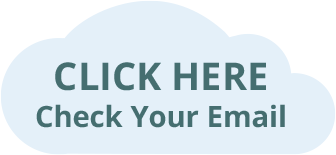
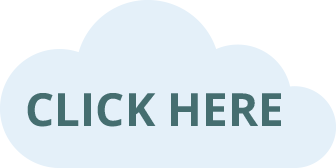
final revisions pt 001

diff --git a/style.css b/style.css
@@ -6,7 +6,8 @@
 .foot { }
 .foot-cta { background-color: #B2B4BB; padding:1em; }
 .clouds { width: 50%; }
-
+#dynamicContentID0 div { width:25%; margin:auto; line-height:1.125; font-weight:bold; }
+#dynamicContentClick { /*display:inline-block;*/ }
 /* Overlay Controls */
 .overlay { overflow-x: hidden; }
 .overlay { position: absolute; top: 0; left: 0; text-align:center; width:100%; }
@@ -29,7 +30,7 @@
 .interact .content h3 { line-height:1; }
 .intro .content p { text-align:left; line-height:1.125; }
 .intro .content .play-button { font-size:1.25em; font-weight: bold; background-color:#f07d00; border-color:#f07d00; color:#fff; border-radius:15px; padding:0.75rem 1.75rem; margin:0; }
-
+#modalTitle { color:#f07d00; font-weight:bold; }
 .off { display:none; }
 .on { display:inherit; }
 
@@ -52,7 +53,7 @@ p { line-height: 1.25 !important; margin-bottom:5px !important; }
     .overlay.bgnd-after { background: url(./images/mic-bc-grfx-main-bgnd-after.png) repeat-x scroll 50% 75% / 150% 150%; }
     .overlay.start.beta { background: url(./images/mic-bc-grfx-main-construct-anim.gif) no-repeat scroll 50% 75% / 150% 150%; }
     .overlay.result { background: url(./images/mic-bc-grfx-main-construct.png) no-repeat scroll 50% 75% / 150% 150%; }
-    .overlay.two.alpha { background: url(./images/mic-bc-grfx-main-b2b.png) no-repeat scroll 50% 75% / 150% 150%; }
+    .overlay.two.alpha { background: url(./images/mic-bc-grfx-main-b2b.png) no-repeat scroll 50% 25% / 100% 100%; }
     .overlay.two.beta { background: url(./images/mic-bc-grfx-main-b2c.png) no-repeat scroll 50% 75% / 150% 150%; }
     .overlay.two.gamma { background: url(./images/mic-bc-grfx-main-construct2.png) no-repeat scroll 50% 75% / 150% 150%; }
     .overlay.two.delta { background: url(./images/mic-bc-grfx-main-construct2-anim.gif) no-repeat scroll 50% 75% / 150% 150%; }
@@ -69,6 +70,10 @@ p { line-height: 1.25 !important; margin-bottom:5px !important; }
     .overlay.eight.alpha { background: url(./images/mic-bc-grfx-main-owner-m.png) no-repeat scroll 50% 75% / 150% 150%; }
     .overlay.eight.beta { background: url(./images/mic-bc-grfx-main-owner-f.png) no-repeat scroll 50% 75% / 150% 150%; }
     .clouds { width: 100%; }
+    #dynamicContentID0 { }
+    #dynamicContentID0 div { font-size:0.5em; }
+    #dynamicContentIDX, #dynamicContentIDY { font-size:0.75em; }
+    #dynamicContentClick { /*max-width:40%;*/ }
 } /* Define mobile styles */
 
 @media only screen and (max-width: 40em) { } /* max-width 640px, mobile-only styles, use when QAing mobile issues */
@@ -105,7 +110,9 @@ p { line-height: 1.25 !important; margin-bottom:5px !important; }
     .overlay.eight.alpha { background: url(./images/mic-bc-grfx-main-owner-m.png) no-repeat scroll 50% 25% / 100% 100%; }
     .overlay.eight.beta { background: url(./images/mic-bc-grfx-main-owner-f.png) no-repeat scroll 50% 25% / 100% 100%; }
     .clouds { width: 50%; }
-
+    #dynamicContentID0 div { font-size:1em; }
+    #dynamicContentIDX, #dynamicContentIDY { font-size:1em; }
+    #dynamicContentClick { /*max-width:40%;*/ }
 } /* min-width 641px, medium screens */
 
 @media only screen and (min-width: 40.063em) and (max-width: 64em) { } /* min-width 641px and max-width 1024px, use when QAing tablet-only issues */
@@ -115,7 +122,7 @@ p { line-height: 1.25 !important; margin-bottom:5px !important; }
     .main { /*top:15%;*/ top:-20%; }
     .interact, .intro { position:absolute; }
     .query { font-size:1.125em; }
-        .overlay.nine.alpha { background: url(./images/email-automation-button.png) no-repeat scroll 50% 75% / 150% 150%; }
+    /*.overlay.nine.alpha { background: url(./images/email-automation-button.png) no-repeat scroll 50% 75% / 150% 150%; }*/
 } /* min-width 1025px, large screens */
 
 @media only screen and (min-width: 64.063em) and (max-width: 90em) { } /* min-width 1025px and max-width 1440px, use when QAing large screen-only issues */

diff --git a/generatecontent.js b/generatecontent.js
@@ -8,7 +8,7 @@
 var callThisOnReturn = function(resp) {
     if(resp && resp.contact) {
         var contact = resp.contact;
-        console.warn(contact);
+        //console.warn(contact);
         //var name = contact['First Name'];
         var ss_id = contact['SharpSpring ID'];
         var ss_status = contact['Lead Status'];
@@ -192,11 +192,16 @@ var callThisOnReturn = function(resp) {
         }
 
         // Define containers for dynamic content
+        // Results Page message one
+        var elemX = document.getElementById('dynamicContentIDX');
+        elemX.innerHTML = 'Your Boom City company is<br>' + result_b_sng + '.<br>';
+        //Results PSage message two
+        var elemY = document.getElementById('dynamicContentIDY');
+        elemY.innerHTML = 'to see how its owner,' + result_name + ', got ' + result_his + ' business booming.';
+
+        // Business signage
         var elem0 = document.getElementById('dynamicContentID0');
         elem0.innerHTML = '<div>' + result_b_sng +'</div>';
-        //var elemX = document.getElementById('dynamicContentIDX');
-        //elemX.innerHTML = 'Sales Team: ' + ss_team + '&nbsp;|&nbsp;' + 'CRM: ' + ss_crm + '&nbsp;|&nbsp;' + 'Frequency: ' + ss_frequency + '&nbsp;|&nbsp;' + 'Online Purchase: ' + ss_online + '&nbsp;|&nbsp;' + 'Type: ' + ss_type + '<br>';
-
         // Email Automation Container
         var elem1 = document.getElementById('dynamicContentID1');
         elem1.innerHTML = email_automation_blurb;
@@ -249,6 +254,6 @@ var callThisOnReturn = function(resp) {
             document.getElementById('owner_beta').className += " on";
         }
     } else {
-        window.location.href='http://dev.marketingincolor.com/micmatool/index.html';
+        window.location.href='http://marketingincolor.com/boomcity';
     }
 };

diff --git a/results-details.php b/results-details.php
@@ -1,0 +1,127 @@
+<!DOCTYPE html>
+<html lang="en"><?php //include 'create-queries.php'; ?>
+<head>
+    <meta charset="utf-8" />
+    <meta name="viewport" content="width=device-width" />
+    <meta content="regularly" property="step6:value">
+    <title>Marketing Automation Game - Dynamic Content</title>
+    <link rel="stylesheet" href="style.css" />
+    <link rel="stylesheet" href="https://cdnjs.cloudflare.com/ajax/libs/foundation/5.5.3/css/foundation.css" />
+    <?php include 'page-includes.php'; ?>
+    <script src="generatecontent.js" type="text/javascript"></script>
+    <script type="text/javascript">
+        var _ss = _ss || [];
+        _ss.push(['_setDomain', 'https://koi-UUHGVW.marketingautomation.services/net']);
+        _ss.push(['_setAccount', 'KOI-YU6QP0']);
+        _ss.push(['_setResponseCallback', callThisOnReturn]);
+        _ss.push(['_trackPageView']);
+        (function() {
+            var ss = document.createElement('script');
+            ss.type = 'text/javascript'; ss.async = true;
+            ss.src = ('https:' == document.location.protocol ? 'https://' : 'http://') + 'koi-UUHGVW.marketingautomation.services/client/ss.js?ver=1.1.1';
+            var scr = document.getElementsByTagName('script')[0];
+            scr.parentNode.insertBefore(ss, scr);
+        })();
+    </script>
+
+</head>
+<body class="boomcity">
+    <div class="header">
+        <div class="row">
+	        <div class="small-6 medium-4 small-centered columns">
+                <img src="./images/mic-bc-grfx-main-hdr.png" />
+            </div>
+        </div>
+    </div>
+
+    <div class="interact">
+        <div class="row">
+            <div class="small-10 medium-12 large-10 small-centered columns">
+                <div class="row">
+                    <div class="content small-4 columns">
+                        <a href="#" data-reveal-id="ea-modal"><img src="images/email-automation-cloud.png" class="clouds"/></a>
+                    </div>
+                    <div class="content small-4 columns">&nbsp;</div>
+                    <div class="content small-4 columns">
+                        <a href="#" data-reveal-id="crm-modal"><img src="images/crm-cloud.png" class="clouds"/></a>
+                    </div>
+                </div>
+                <div class="row">
+                    <div class="content small-4 columns">&nbsp;</div>
+                    <div class="content small-4 columns">
+                        <a href="#" data-reveal-id="dwc-modal"><img src="images/dynamic-web-content-cloud.png" class="clouds"/></a>
+                    </div>
+                    <div class="content small-4 columns">&nbsp;</div>
+                </div>
+                <div class="row">
+                    <div class="content small-4 columns">
+                        <a href="#" data-reveal-id="de-modal"><img src="images/dynamic-email-button.png" class="clouds"/></a>
+                    </div>
+                    <div class="content small-4 columns">&nbsp;</div>
+                    <div class="content small-4 columns">
+                        <a href="#" data-reveal-id="ct-modal"><img src="images/call-tracking-cloud.png" class="clouds"/></a>
+                    </div>
+                </div>
+            </div>
+        </div>
+    </div>
+
+    <div class="results-main">
+        <div class="row medium-collapse">
+            <div class="small-12 small-centered columns">
+                <div class="overlay bgnd-results"><img src="./images/mic-bc-grfx-main-clear.png" /></div>
+                <div class="overlay start off"><img src="./images/mic-bc-grfx-main-clear.png" /></div>
+
+                <div id="type_alpha" class="overlay type two alpha"><img src="./images/mic-bc-grfx-main-clear.png" /></div>
+                <div id="type_beta" class="overlay type two epsilon"><img src="./images/mic-bc-grfx-main-clear.png" /></div>
+                <div id="company_name" class="overlay busname">
+                    <img src="./images/mic-bc-grfx-main-clear-name.png" />
+                    <div id="dynamicContentID0">&nbsp;</div>
+                </div>
+                <div id="team_alpha" class="overlay team three alpha"><img src="./images/mic-bc-grfx-main-clear.png" /></div>
+                <div id="team_beta" class="overlay team three beta"><img src="./images/mic-bc-grfx-main-clear.png" /></div>
+                <div id="crm_alpha" class="overlay crm four alpha"><img src="./images/mic-bc-grfx-main-clear.png" /></div>
+                <div id="crm_beta" class="overlay crm four beta"><img src="./images/mic-bc-grfx-main-clear.png" /></div>
+                <div id="online_alpha" class="overlay online five alpha"><img src="./images/mic-bc-grfx-main-clear.png" /></div>
+                <div id="online_beta" class="overlay online five beta"><img src="./images/mic-bc-grfx-main-clear.png" /></div>
+                <div id="frequency_alpha" class="overlay frequency six alpha off"><img src="./images/mic-bc-grfx-main-clear.png" /></div>
+                <div id="owner_alpha" class="overlay owner eight alpha"><img src="./images/mic-bc-grfx-main-clear.png" /></div>
+                <div id="owner_beta" class="overlay owner eight beta"><img src="./images/mic-bc-grfx-main-clear.png" /></div>
+                <div class="overlay foot">
+                    <img src="./images/mic-bc-grfx-main-clear.png" /></br>
+                    <div class="foot-cta"><a href="http://marketingincolor.com" target="_blank"><img src="./images/mic-bc-grfx-main-btyb.png" /></a></div>
+                </div>
+            </div>
+        </div>
+    </div>
+
+    <div id="ea-modal" xid="dynamicContentID1" class="small reveal-modal" data-reveal aria-hidden="true" role="dialog">
+        <h2 id="modalTitle">Email Automation</h2>
+        <div id="dynamicContentID1">&nbsp;</div>
+        <a class="close-reveal-modal" aria-label="Close">&#215;</a>
+    </div>
+    <div id="crm-modal" xid="dynamicContentID2" class="small reveal-modal" data-reveal aria-hidden="true" role="dialog">
+        <h2 id="modalTitle">CRM</h2>
+        <div id="dynamicContentID2">&nbsp;</div>
+        <a class="close-reveal-modal" aria-label="Close">&#215;</a>
+    </div>
+    <div id="dwc-modal" xid="dynamicContentID3" class="small reveal-modal" data-reveal aria-hidden="true" role="dialog">
+        <h2 id="modalTitle">Dynamic Web Content</h2>
+        <div id="dynamicContentID3">&nbsp;</div>
+        <a class="close-reveal-modal" aria-label="Close">&#215;</a>
+    </div>
+    <div id="de-modal" xid="dynamicContentID4" class="small reveal-modal" data-reveal aria-hidden="true" role="dialog">
+        <h2 id="modalTitle">Dynamic Email</h2>
+        <div id="dynamicContentID4">&nbsp;</div>
+        <a class="close-reveal-modal" aria-label="Close">&#215;</a>
+    </div>
+    <div id="ct-modal" xid="dynamicContentID5" class="small reveal-modal" data-reveal aria-hidden="true" role="dialog">
+        <h2 id="modalTitle">Call Tracking</h2>
+        <div id="dynamicContentID5">&nbsp;</div>
+        <a class="close-reveal-modal" aria-label="Close">&#215;</a>
+    </div>
+    <span id="dynamicContentIDX" style="display:none;">&nbsp;</span>
+    <span id="dynamicContentIDY" style="display:none;">&nbsp;</span>
+<?php include 'page-includes.php'; ?>
+</body>
+</html>

diff --git a/results.php b/results.php
@@ -1,5 +1,5 @@
 <!DOCTYPE html>
-<html lang="en"><?php //include 'create-queries.php'; ?>
+<html lang="en"><?php include 'create-queries.php'; ?>
 <head>
     <meta charset="utf-8" />
     <meta name="viewport" content="width=device-width" />
@@ -37,24 +37,12 @@
     <div class="interact">
         <div class="row">
             <div class="small-10 medium-12 large-10 small-centered columns">
-            <!--<div class="content small-12 columns">
-                <h5 id="dynamicContentIDX">Results</h5>
-            </div>-->
-                <div class="row">
-                    <div class="content small-4 columns"><a href="#" data-reveal-id="de-modal"><img src="images/email-automation-cloud.png" class="clouds"/></a></div>
-                    <div class="content small-4 columns">&nbsp;</div>
-                    <div class="content small-4 columns"><a href="#" data-reveal-id="crm-modal"><img src="images/crm-cloud.png" class="clouds"/></a></div>
-                </div>
-                <div class="row">
-                    <div class="content small-4 columns">&nbsp;</div>
-                    <div class="content small-4 columns"><a href="#" data-reveal-id="dwc-modal"><img src="images/dynamic-web-content-cloud.png" class="clouds"/></a></div>
-                    <div class="content small-4 columns">&nbsp;</div>
-                </div>
-                <div class="row">
-                    </a></div>
-                    <div class="content small-4 columns overlay nine alpha"><a href="#" data-reveal-id="ea-modal"><img src="images/dynamic-email-button.png" class="clouds"/></a></div>
-                    <div class="content small-4 columns">&nbsp;</div>
-                    <div class="content small-4 columns"><a href="#" data-reveal-id="ct-modal"><img src="images/call-tracking-cloud.png" class="clouds"/></a></div>
+                <div class="content">
+                    <h5 id="dynamicContentIDX">Your Boom City company is<br>&nbsp;.<br></h5>
+                    <div class="small-6 small-offset-3">
+                        <a id="dynamicContentClick" href="./results-details"><img src="./images/click-here-cloud.png"></a>
+                    </div>
+                    <h5 id="dynamicContentIDY">to see how its owner, &nbsp;, got his business booming.<br></h5>
                 </div>
             </div>
         </div>
@@ -65,7 +53,7 @@
             <div class="small-12 small-centered columns">
                 <div class="overlay bgnd-results"><img src="./images/mic-bc-grfx-main-clear.png" /></div>
                 <div class="overlay start off"><img src="./images/mic-bc-grfx-main-clear.png" /></div>
-                
+
                 <div id="type_alpha" class="overlay type two alpha"><img src="./images/mic-bc-grfx-main-clear.png" /></div>
                 <div id="type_beta" class="overlay type two epsilon"><img src="./images/mic-bc-grfx-main-clear.png" /></div>
                 <div id="company_name" class="overlay busname">
